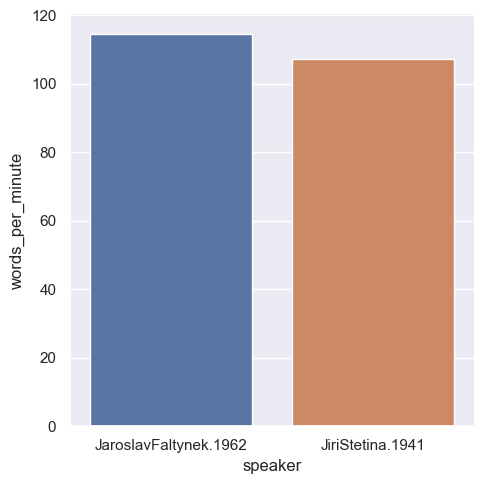
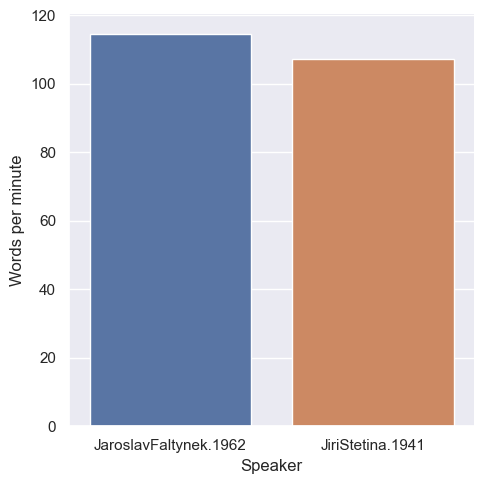
examples: make the labels more user-friendly

diff --git a/scripts/plot_statistics.py b/scripts/plot_statistics.py
@@ -27,8 +27,10 @@ class Plotter:
 
         if compare_by == "speaker":
             self.x = "speaker"
+            self.x_label = "Speaker"
         else:
             self.x = "election_period"
+            self.x_label = "Election period"
 
         if len(mops) == 1:
             self.dir_name = mops[0]
@@ -60,8 +62,15 @@ class Plotter:
             "length_word",
             "length_sentence",
             "length_paragraph",
-            "length_utterance",
+            "length_utterance"
         ]
+
+        stats_labels = {
+            "length_word": "Word",
+            "length_sentence": "Sentence",
+            "length_paragraph": "Paragraph",
+            "length_utterance": "Utterance"
+        }
 
         plot_df = pd.DataFrame()
         for stat in length_stats:
@@ -79,6 +88,7 @@ class Plotter:
             kind="bar",
             data=plot_df
         )
+        sns_plot.set_axis_labels(x_var=self.x_label, y_var="Speaking time [h]")
 
         path = os.path.join(path_to_dir, "total_length.png")
         sns_plot.savefig(path)
@@ -106,6 +116,7 @@ class Plotter:
             kind="bar",
             data=plot_df
         )
+        sns_plot.set_axis_labels(x_var=self.x_label, y_var="Relative difference")
 
         path = os.path.join(path_to_dir, "relative_diff.png")
         sns_plot.savefig(path)
@@ -120,6 +131,7 @@ class Plotter:
             kind="bar",
             data=plot_df
         )
+        sns_plot.set_axis_labels(x_var=self.x_label, y_var="Percentage of unanchored words")
 
         path = os.path.join(path_to_dir, "unanchored.png")
         sns_plot.savefig(path)
@@ -134,6 +146,7 @@ class Plotter:
             kind="bar",
             data=plot_df
         )
+        sns_plot.set_axis_labels(x_var=self.x_label, y_var="Words per minute")
 
         path = os.path.join(path_to_dir, "wpm.png")
         sns_plot.savefig(path)

diff --git a/docs/statistics_examples/notes.md b/docs/statistics_examples/notes.md
@@ -20,7 +20,7 @@ What is missing in the examples, what will be added, in general important things
 
 - the way the data is displayed on a website will probably differ from the way they are displayed here, especially the design might change significantly; however, it is desirable the examples here contain roughly the same data as the website will contain (that is what is plotted, etc.)
 - the examples are missing a header with info about the speaker; will be added
-- the plots are very rough (speech lengths in milliseconds,...); will make more user-friendly
+- the plots are very rough (legends,...); will make more user-friendly
 - there are very little statistics right now; will add more, for example:
   - difference between the speed of speaking throughout the day (not trivial; needs to account for different speakers etc.)
   - compare the statistics between different genders, age groups, parties,...
